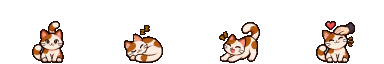
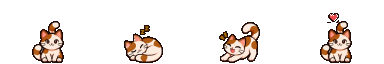
Câmera mais afastada (512x288), chuva e som abafado nas janelas de baixo, carinho sem mão solta, porta-guarda-chuvas sólido
Claude-Session: https://claude.ai/code/session_01PDyLU6Huw5amytFREh1vA2

Changed region(s): [[0.8125, 0.1875, 0.9375, 1.0]]

diff --git a/src/systems/AudioSystem.ts b/src/systems/AudioSystem.ts
@@ -34,7 +34,7 @@ const SYNTH: Record<Sfx, Note[]> = {
 
 class AudioSystemImpl {
   private ctx: AudioContext | null = null;
-  private rainNode: { src: AudioBufferSourceNode; gain: GainNode } | null = null;
+  private rainNode: { src: AudioBufferSourceNode; gain: GainNode; filter: BiquadFilterNode } | null = null;
   /** Arquivos reais registrados pelo PreloadScene (sfx/música). */
   private files = new Map<string, HTMLAudioElement>();
   private music: HTMLAudioElement | null = null;
@@ -104,32 +104,60 @@ class AudioSystemImpl {
 
   applyVolumes(): void {
     if (this.music) this.music.volume = SettingsStore.data.musicVolume;
-    if (this.rainNode) this.rainNode.gain.gain.value = 0.05 * SettingsStore.data.sfxVolume;
+    if (this.rainNode) this.updateRain();
   }
 
-  /** Chuva ambiente: ruído filtrado (placeholder). */
+  private rainOut = false;
+  private rainIn = false;
+
+  /** Chuva ambiente ao ar livre (ruído filtrado). */
   setRain(on: boolean): void {
+    this.rainOut = on;
+    this.updateRain();
+  }
+
+  /** Chuva ouvida de dentro de casa: abafada, grave e baixinha, com batidinhas no vidro. */
+  setMuffledRain(on: boolean): void {
+    this.rainIn = on;
+    this.updateRain();
+  }
+
+  private updateRain(): void {
     const ac = this.ac();
     if (!ac) return;
-    if (on && !this.rainNode) {
-      const buf = ac.createBuffer(1, ac.sampleRate * 2, ac.sampleRate);
+    const want = this.rainOut ? 'out' : this.rainIn ? 'in' : null;
+    if (!want) {
+      if (this.rainNode) {
+        this.rainNode.src.stop();
+        this.rainNode = null;
+      }
+      return;
+    }
+    if (!this.rainNode) {
+      const buf = ac.createBuffer(1, ac.sampleRate * 3, ac.sampleRate);
       const d = buf.getChannelData(0);
-      for (let i = 0; i < d.length; i++) d[i] = Math.random() * 2 - 1;
+      let brown = 0;
+      for (let i = 0; i < d.length; i++) {
+        // ruído rosado/marrom (mais natural) + gotinhas esparsas
+        brown = (brown + 0.02 * (Math.random() * 2 - 1)) / 1.02;
+        d[i] = brown * 3.2 + (Math.random() * 2 - 1) * 0.35 + (Math.random() < 0.0009 ? (Math.random() * 2 - 1) * 1.4 : 0);
+      }
       const src = ac.createBufferSource();
       src.buffer = buf;
       src.loop = true;
       const filter = ac.createBiquadFilter();
       filter.type = 'lowpass';
-      filter.frequency.value = 1200;
       const gain = ac.createGain();
-      gain.gain.value = 0.05 * SettingsStore.data.sfxVolume;
       src.connect(filter).connect(gain).connect(ac.destination);
       src.start();
-      this.rainNode = { src, gain };
-    } else if (!on && this.rainNode) {
-      this.rainNode.src.stop();
-      this.rainNode = null;
+      this.rainNode = { src, gain, filter };
     }
+    const n = this.rainNode;
+    const t = ac.currentTime;
+    const vol = SettingsStore.data.sfxVolume;
+    n.filter.frequency.setTargetAtTime(want === 'out' ? 1200 : 420, t, 0.4);
+    n.filter.Q.setTargetAtTime(want === 'out' ? 0.7 : 0.4, t, 0.4);
+    n.gain.gain.setTargetAtTime((want === 'out' ? 0.05 : 0.11) * vol, t, 0.4);
   }
 
   unlock(): void {

diff --git a/src/regions/piabeta/casaBella.map.ts b/src/regions/piabeta/casaBella.map.ts
@@ -43,6 +43,7 @@ export const casaBellaMap: MapDef = {
     rects: [
       R(310, 74, 372, 96), R(382, 74, 444, 96), R(310, 103, 372, 143), R(382, 103, 444, 143), // quarto
       R(1206, 74, 1270, 96), R(1281, 74, 1344, 96), R(1206, 103, 1270, 138), R(1281, 103, 1344, 138), // cozinha
+      R(373, 918, 434, 967), R(443, 918, 504, 967), R(1032, 918, 1098, 967), R(1101, 918, 1166, 967), // sala (parede de baixo)
     ],
   },
 
@@ -82,8 +83,8 @@ export const casaBellaMap: MapDef = {
 
   props: [
     // porta-guarda-chuvas ao lado da porta (o rosa some quando a Bella pega)
-    { key: 'prop-umbrella-stand', tx: 13.2, ty: 18.1, scale: 0.24, block: [2, 36, 19, 12], visibleIf: () => !objDone('guarda-chuva') },
-    { key: 'prop-umbrella-stand-empty', tx: 13.2, ty: 18.1, scale: 0.24, block: false, visibleIf: () => objDone('guarda-chuva') },
+    { key: 'prop-umbrella-stand', tx: 13.2, ty: 18.1, scale: 0.24, block: [0, 24, 23, 25], visibleIf: () => !objDone('guarda-chuva') },
+    { key: 'prop-umbrella-stand-empty', tx: 13.2, ty: 18.1, scale: 0.24, block: [0, 24, 23, 25], visibleIf: () => objDone('guarda-chuva') },
   ],
 
   // (a chuva nas janelas já está desenhada no cenário)

diff --git a/src/ui/UIManager.ts b/src/ui/UIManager.ts
@@ -3,7 +3,7 @@ import { playCardGame, type CardResult } from './screens/CardGame';
 import { playAcaiGame, type AcaiOptions, type AcaiResult } from './screens/AcaiGame';
 import type Phaser from 'phaser';
 import { h } from '@/utils/dom';
-import { GAME_WIDTH } from '@/config/gameConfig';
+import { UI_WIDTH } from '@/config/gameConfig';
 import { DialogueBox } from './components/DialogueBox';
 import { HUD } from './components/HUD';
 import { Toasts } from './components/Toasts';
@@ -96,7 +96,7 @@ class UIManagerImpl {
     if (!canvas) return;
     const r = canvas.getBoundingClientRect();
     Object.assign(this.root.style, { left: `${r.left}px`, top: `${r.top}px`, width: `${r.width}px`, height: `${r.height}px` });
-    this.root.style.setProperty('--u', `${r.width / GAME_WIDTH}px`);
+    this.root.style.setProperty('--u', `${r.width / UI_WIDTH}px`);
     // posição real da tela do jogo, para a moldura e a barra de itens
     const de = document.documentElement.style;
     de.setProperty('--cv-l', `${r.left}px`);

diff --git a/src/config/gameConfig.ts b/src/config/gameConfig.ts
@@ -1,9 +1,12 @@
 /** Constantes globais do jogo. Ajuste aqui, não espalhe números mágicos. */
 /** Área visível do mundo (em px lógicos). Toda a lógica usa esta escala. */
-export const GAME_WIDTH = 480;
-export const GAME_HEIGHT = 270;
+/** 512x288: a largura inteira de cada cenário (1536 px de arte = 512 px lógicos) cabe na tela. */
+export const GAME_WIDTH = 512;
+export const GAME_HEIGHT = 288;
+/** Largura de referência da interface (--u): mantém menus e caixas de texto do mesmo tamanho. */
+export const UI_WIDTH = 480;
 /**
- * O canvas é desenhado em resolução dobrada (960x540) com zoom 2 na câmera.
+ * O canvas é desenhado em resolução dobrada (1024x576) com zoom 2 na câmera.
  * Arte "HD" (personagens e cenários do ChatGPT) é carregada com o dobro de
  * pixels e exibida em escala 0,5 — mantém o detalhe original da arte.
  */

diff --git a/src/scenes/GameScene.ts b/src/scenes/GameScene.ts
@@ -359,6 +359,7 @@ export class GameScene extends Phaser.Scene {
 
   private refreshRainWindows(): void {
     const on = this.def.rainWindows?.when() ?? false;
+    AudioSystem.setMuffledRain(on);
     for (const o of this.rainWindowObjs) (o as unknown as Phaser.GameObjects.Components.Visible).setVisible(on);
   }
 

diff --git a/src/main.ts b/src/main.ts
@@ -49,6 +49,7 @@ UI.init(
     quitToTitle: async () => {
       await SaveSystem.autosave();
       AudioSystem.setRain(false);
+      AudioSystem.setMuffledRain(false);
       game.scene.stop('Game');
       game.scene.start('Menu');
     },
